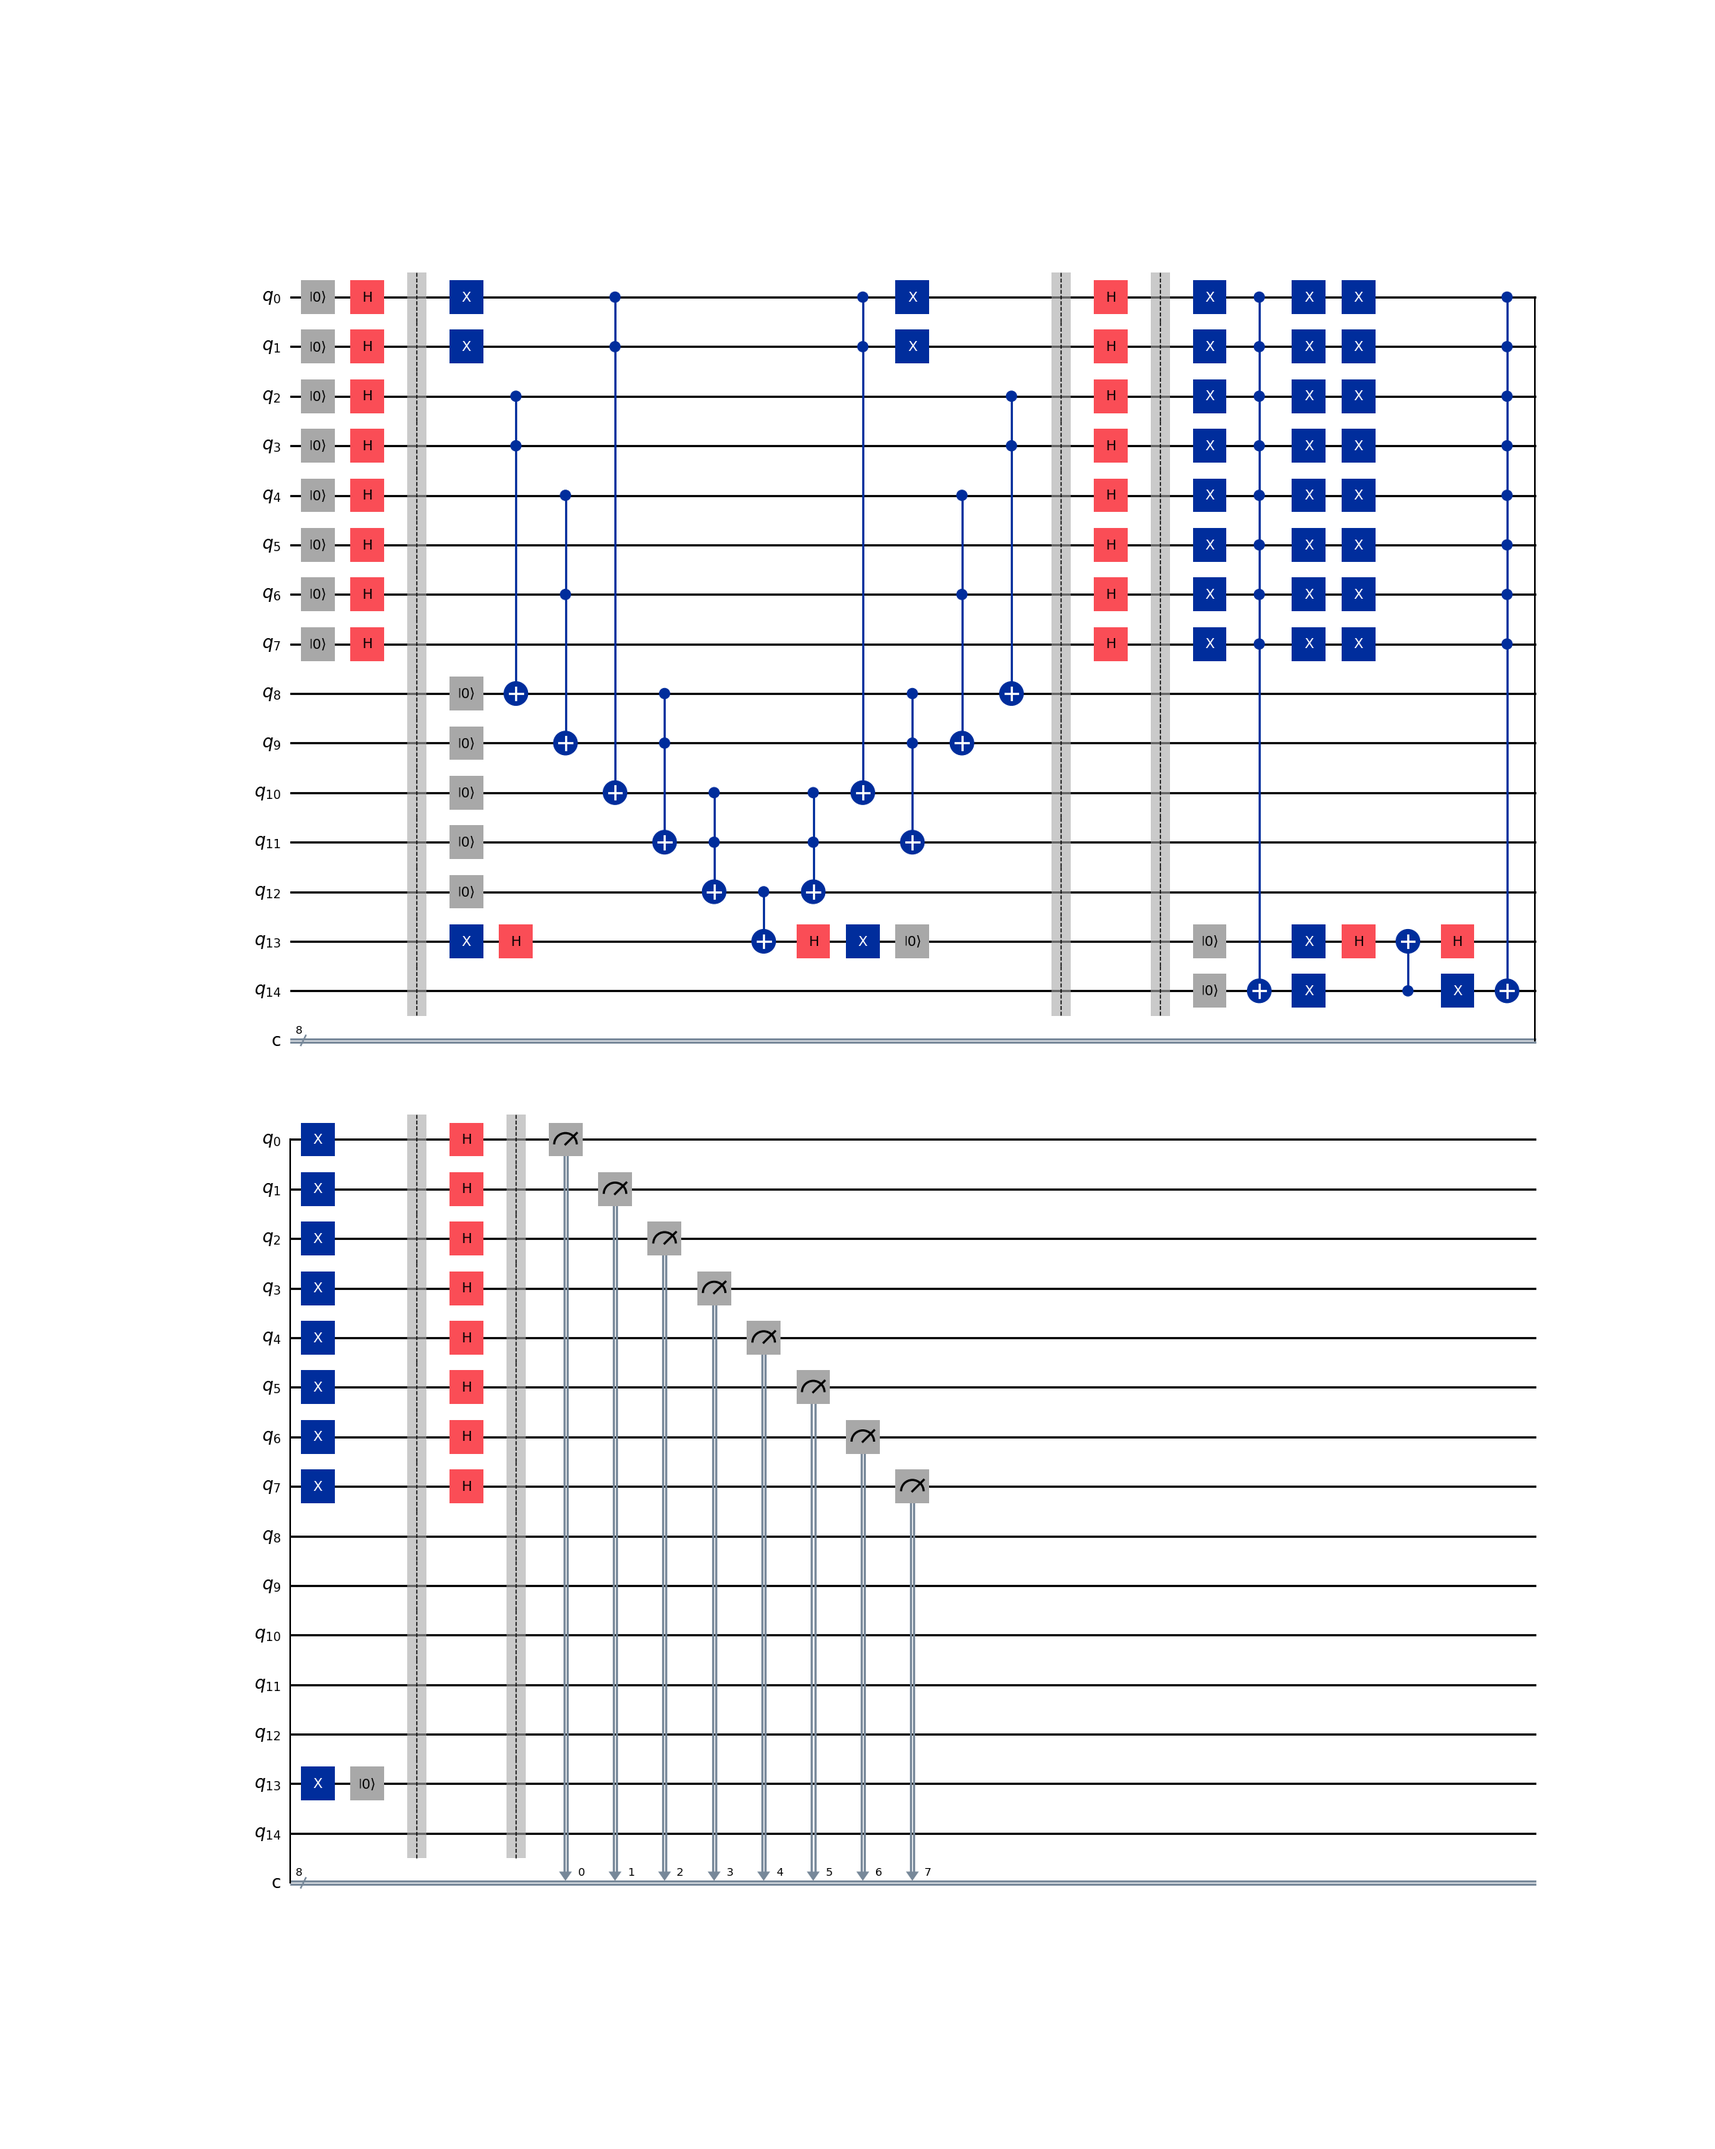
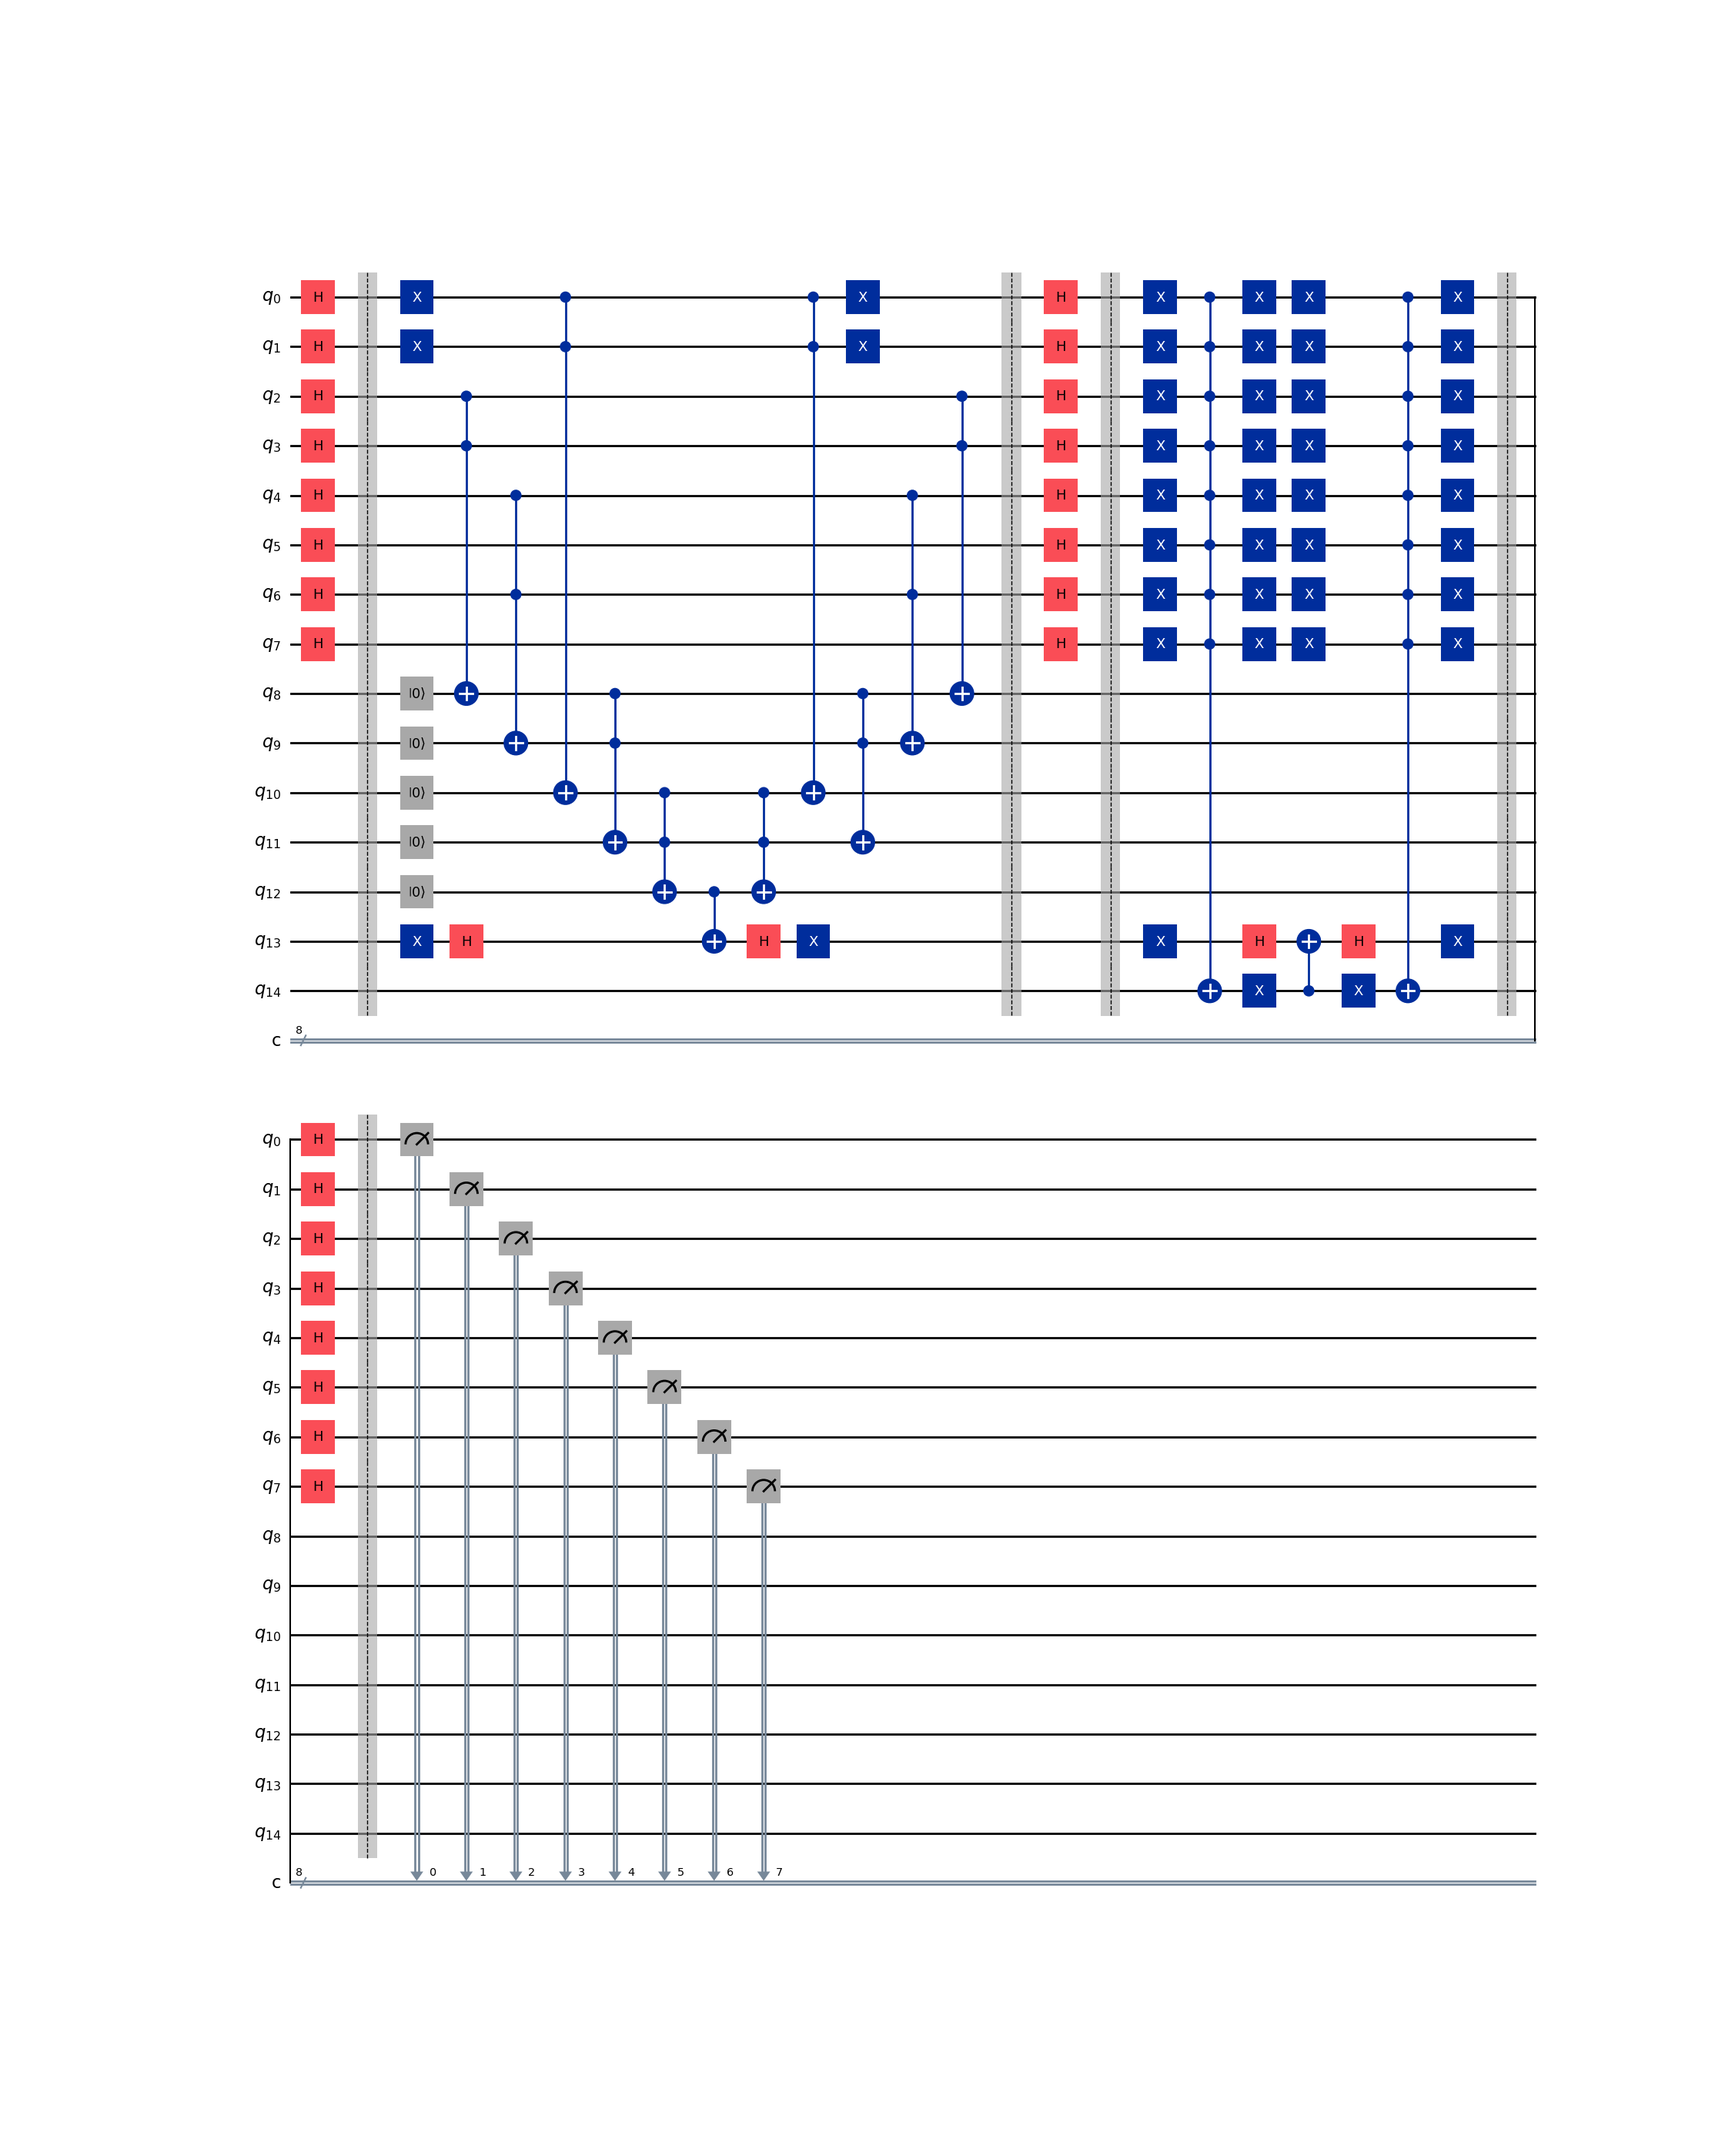
chore: removed unnecessary reset

diff --git a/Grover.py b/Grover.py
@@ -99,13 +99,9 @@ def Z_or (circ):
     """Implements the Z_OR gate acting on INPUT_QUBIT_INDICES."""
     
     # --- Part 1: Compute OR(X) into OR_RESULT_ANC_INDEX ---
-    # Ensure OR_RESULT_ANC_INDEX is |0> before computation
-    circ.reset(OR_RESULT_ANC_INDEX)
     compute_OR_fx(circ)
 
     # --- Part 2: Phase Kickback ---
-    # Ensure PHASE_ANC_INDEX is |0> before preparing for kickback
-    circ.reset(PHASE_ANC_INDEX)
     # Prepare for kickback into |->
     circ.x(PHASE_ANC_INDEX)
     circ.h(PHASE_ANC_INDEX)
@@ -121,7 +117,6 @@ def Z_or (circ):
     # Return PHASE_ANC_INDEX from |-> basis back to |0>
     circ.h(PHASE_ANC_INDEX)
     circ.x(PHASE_ANC_INDEX)
-    circ.reset(PHASE_ANC_INDEX)
 
     circ.barrier()
 
@@ -188,8 +183,6 @@ def Z_f (circ):
     # Return PHASE_ANC_INDEX from |-> basis back to |0>
     circ.h(PHASE_ANC_INDEX)
     circ.x(PHASE_ANC_INDEX)
-    # Optionally, if you want to be absolutely sure it's |0> for other potential uses
-    circ.reset(PHASE_ANC_INDEX) 
 
     circ.barrier() # Good practice to separate logical blocks
 
@@ -204,7 +197,6 @@ def Grover (circ, t):
 
     # Step 1 prepare all qubits in a super position
     for i in input_qubits:
-        circ.reset(i)
         circ.h(i)
     circ.barrier() # Good practice to separate logical blocks
 
